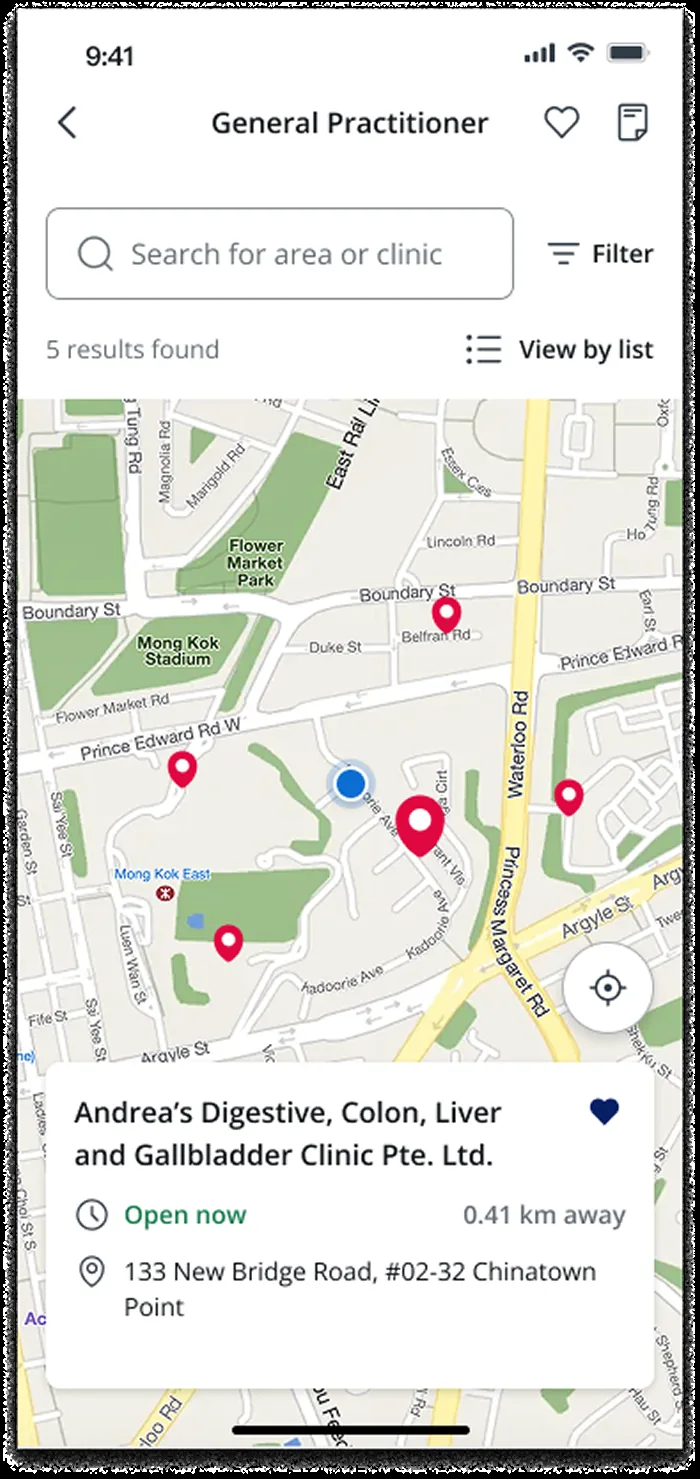
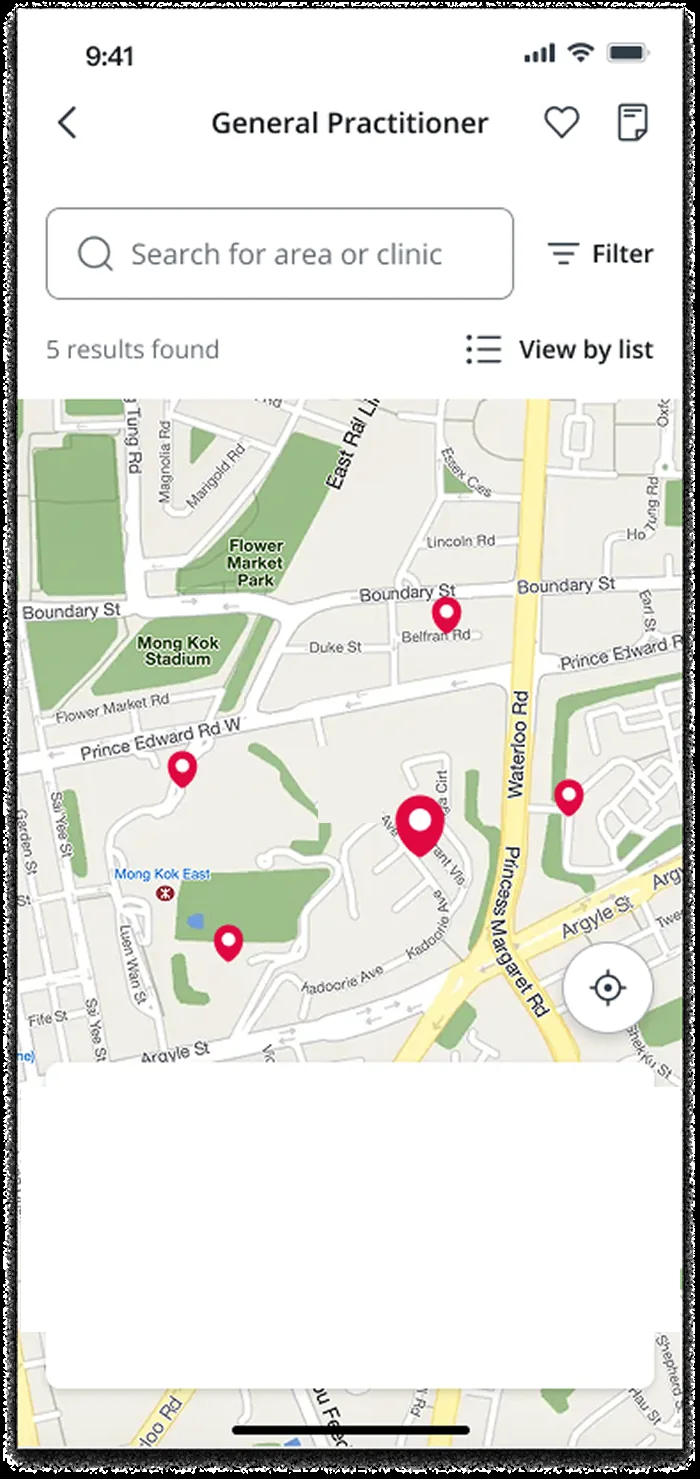
feat: redact the clinic identity and contact data on the two AIA+ clinic screenshots
- Clinic search: clinic name, address, distance and the map's location marker are covered
- Clinic details: clinic name, phone number and both address lines are covered, in addition
  to the doctor names already redacted
- bands placed from measured text rows (phone at ~25%, address lines at ~35% and ~42%) and
  confirmed by re-reading the redacted regions at 2x zoom

diff --git a/data/resume.js b/data/resume.js
@@ -32,14 +32,14 @@ export const experience = [
         w: 700,
         h: 1479,
         caption: 'Clinic search',
-        alt: 'AIA+ app screen: search results for general practitioner clinics shown on a map with a selected clinic card.',
+        alt: 'AIA+ app screen: clinic search results on a map. Clinic identity, address and location marker redacted.',
       },
       {
         id: 'aia-2',
         w: 559,
         h: 1470,
         caption: 'Clinic details',
-        alt: 'AIA+ app screen: clinic details with operating hours, contact information and doctor list. Doctor names redacted.',
+        alt: 'AIA+ app screen: clinic details with operating hours. Clinic identity, phone number, address and doctor names redacted.',
       },
       {
         id: 'aia-3',
